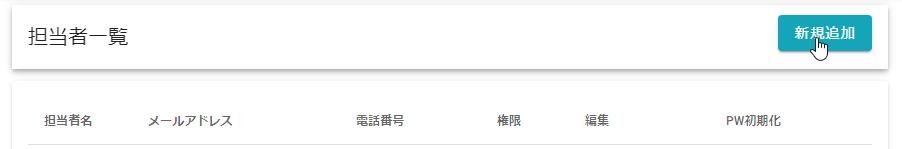
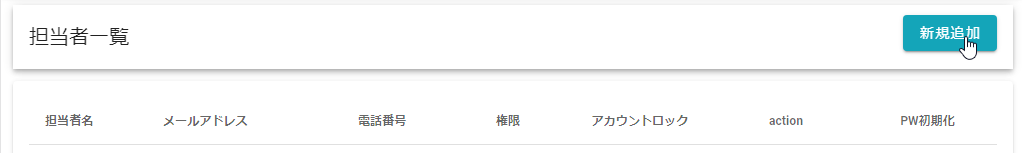
担当者一覧画面にアカウントロック機能についての記述を追加

diff --git a/docs/revision_history.md b/docs/revision_history.md
@@ -2,7 +2,7 @@
 
 |日付|内容|
 |:---------|------------------:|
-|2020/12/10|お問い合わせページの問い合わせ先情報を更新<br/>葬儀データのエクスポート画面についてのマニュアルを追加<br/>各ページの画像を最新化<br/>施行中案件一覧画面に絞り込み機能についての記述を追加<br/>担当者の権限表に葬儀社情報の変更とアカウントロック設定の変更について追加<br/>葬儀社情報のメンテナンス画面についてのマニュアルを追加<br/>|
+|2020/12/10|お問い合わせページの問い合わせ先情報を更新<br/>葬儀データのエクスポート画面についてのマニュアルを追加<br/>各ページの画像を最新化<br/>施行中案件一覧画面に絞り込み機能についての記述を追加<br/>担当者の権限表に葬儀社情報の変更とアカウントロック設定の変更について追加<br/>葬儀社情報のメンテナンス画面についてのマニュアルを追加<br/>担当者一覧画面にアカウントロック機能についての記述を追加<br/>|
 |2020/11/26|システム更新情報ページにv1.10.0の更新内容を追加<br/>|
 |2020/11/16|システム更新情報ページにv1.9.1の更新内容を追加<br/>|
 |2020/11/12|システム更新情報ページにv1.9.0の更新内容を追加<br/>|

diff --git a/docs/maintenance/staff_members.md b/docs/maintenance/staff_members.md
@@ -118,3 +118,9 @@ U-FOSSを利用するユーザを管理するための画面です.
 登録された電話番号宛てにSMSが送られ、送信内容ある4桁のコードが認証キーとなります.  
 また本システムの二段階認証はログインする度におこなうものではなく、1度二段階認証でログインした後は、しばらくの間、「IDとパスワード」の認証のみでログインできます.  
  ![二段階認証](../asset/image/maintenance/staff_members/login2.png)
+
+
+
+## アカウントロックについて  
+特定のユーザのU-FOSSへのログインを停止する場合にアカウントにロックをかけてログインできないように設定できます.  
+また、ログインを何度か失敗すると自動的にそのアカウントにロックがかかるので、ロックされたアカウントのロック解除もおこなえます.
